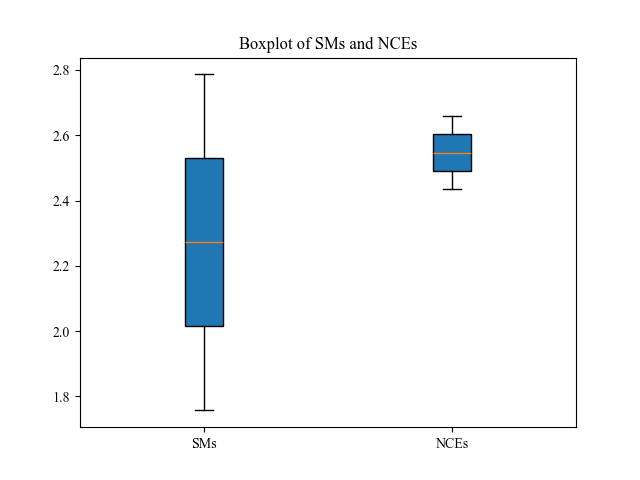
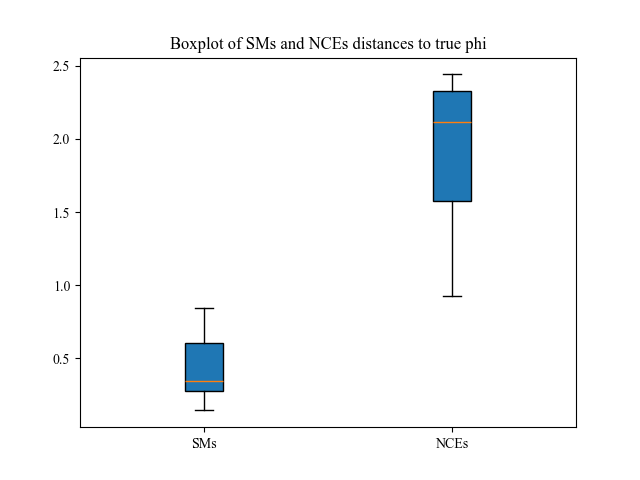
Added more statistcal tests

diff --git a/src/results/NCE_stability.py b/src/results/NCE_stability.py
@@ -1,0 +1,190 @@
+import sys
+sys.path.insert(0, '.')
+
+from src.toolbox import TorusGraph, NCE, SM, sample_syndata_torusgraph, TorusGraphInformation
+from src.parameterEstimation.trainNCE import mixture_torch_loop
+
+
+import time
+import os
+import torch
+import matplotlib.pyplot as plt
+import numpy as np
+from typing import Tuple
+import concurrent.futures
+from functools import partialmethod
+import tqdm
+from scipy.stats import f_oneway
+from scipy import stats
+
+
+def sample_data(N, nodes, phi, nModels ) -> Tuple[np.ndarray, TorusGraphInformation]:
+    X, datamodel = sample_syndata_torusgraph(
+        nodes = nodes,
+        samples = N,
+        phi = phi,
+        nModels = nModels,
+        fitFCM = False,
+        fitPAD = True,
+        fitPAS = False,
+        return_datamodel = True
+    )
+    return X, datamodel
+
+def NCE_estimate(X, N, nodes, K, lr = 0.1, nce_steps = 2000):
+    X = torch.from_numpy(X).float().T
+    noise = torch.rand(N,nodes)*2*torch.tensor(np.pi)
+    estimation_method = NCE(nodes = X.shape[1], K = K, lr = lr, steps = nce_steps, return_log_prop_data = True)
+    torus_graph = TorusGraph(nodes = X.shape[1], samples = X.shape[0], data = X, nModels = K, estimationMethod = estimation_method)
+
+    theta = estimation_method.theta.detach().flatten().numpy()
+
+    return theta
+
+def single_run(N, nodes, phi, K):
+    X, datamodel = sample_data(N, nodes, phi, nModels =2)
+    theta = NCE_estimate(X, N, nodes, K)
+
+    return theta
+
+def cross_val_runs(cv_runs, N, nodes, phi, K):
+    thetas = []
+
+    for i in range(cv_runs):
+        print(f"\n--- Round {i+1} of {cv_runs}: ---\n")
+        # dist, theta = run_NCE(N, nodes, phi, K)
+        # dists.append(dist)
+        theta = single_run(N, nodes, phi, K)
+        thetas.append(theta)
+
+    thetas = np.array(thetas)
+    return thetas
+
+def distances(thetas, cv_runs):
+    dists = []
+
+    for i in range(cv_runs):
+        dist = np.array(np.linalg.norm(phi[0] - thetas[0,i].reshape(2,6)))
+        dists.append(dist)
+        dist1 = np.array(np.linalg.norm(phi[1] - thetas[1,i].reshape(2,6)))
+        dists.append(dist1)
+        
+    return np.array(dists)
+
+def plots(dists):
+    dist1 = dists[:,0,0]#.reshape(20,1)
+    dist2 = dists[:,0,1]#.reshape(20,1)
+    dist3 = dists[:,0,2]#.reshape(1,20)
+    dist4 = dists[:,0,3]#.reshape(1,20)
+    dist5 = dists[:,0,4]#.reshape(1,20)
+    dist6 = dists[:,0,5]#.reshape(1,20)
+
+    plt.rcParams['font.family'] = 'Times New Roman'
+    fig, ax = plt.subplots()
+    boxplot_data = [dist1, dist2, dist3, dist4, dist5, dist6] #, dist3, dist4, dist5, dist6]
+    #boxplot_data = dist1
+    ax.boxplot(boxplot_data, patch_artist=True)
+    ax.set_xticklabels(['Phi1', 'Phi2', 'Phi3', 'Phi4', 'Phi5', 'Phi6'])
+    ax.set_title('Boxplot of distances to true Phi values')
+    plt.show()
+
+
+def stat_tests(thetas):
+    pvalues = []
+    mean = []
+    std = []
+    model_pairs = []
+
+    for i in range(len(thetas)):
+        mean.append(np.mean(thetas[:,i]))
+        std.append(np.std(thetas[:,i]))
+        for j in range(i + 1, len(thetas)):  # Ensure each pair is tested once
+            pvalue = stats.f_oneway(thetas[i], thetas[j])
+            pvalues.append(pvalue.pvalue)
+            model_pairs.append((i, j))
+        # for j in range(len(thetas)):
+        #     pvalue = stats.f_oneway(thetas[i], thetas[j])
+        #     pvalues.append(pvalue.pvalue)
+        #     if j == len(thetas):
+        #         pvalue = f_oneway(thetas[-1], thetas[0])
+        #         pvalues.append(pvalue.pvalue)
+
+    return mean, std, pvalues, model_pairs
+
+
+
+if __name__=="__main__":
+    os.environ['DISABLE_TQDM'] = 'True'
+    tqdm.__init__ = partialmethod(tqdm.__init__, disable=True)
+    start_time = time.time()
+
+    N = 100
+    nodes = 3
+    K = 2
+    cv_runs = 10
+    phi = [
+        np.block([ 0, 0, 8*np.cos(np.pi), 8*np.sin(np.pi), 0, 0 ]), 
+        np.block([ 0, 0, 8*np.cos(np.pi/2), 8*np.sin(np.pi/2), 0, 0 ])]
+
+    thetas = cross_val_runs(cv_runs, N, nodes, phi, K)
+    dists = distances(thetas, cv_runs)
+    mean, std, pvalues, model_pairs = stat_tests(thetas)
+    plots(dists)
+
+    #plots(dist1, dist2, dist3, dist4, dist5, dist6)
+
+    #print(pvalues)
+    significant_pairs = [(pair, pval) for pair, pval in zip(model_pairs, pvalues) if pval < 0.05]
+
+    for pair, pval in significant_pairs:    
+        print(f"Model {pair[0]} and Model {pair[1]} are significantly different with p-value: {pval}")
+
+    plt.figure(figsize=(10,10))
+    plt.subplot(2,3,1)
+    plt.plot(range(cv_runs), thetas[:,0])
+    plt.axhline(mean[0], color='blue', linestyle='--', linewidth=2, label='Mean')
+    plt.xlabel('Iterations')
+    plt.ylabel('Theta values')
+    plt.title('Phi1')
+    plt.legend()
+
+    plt.subplot(2,3,2)
+    plt.plot(range(cv_runs), thetas[:,1], color='green')
+    plt.axhline(mean[1], color='green', linestyle='--', linewidth=2, label='Mean')
+    plt.xlabel('Iterations')
+    plt.ylabel('Theta values')
+    plt.title('Phi2')
+    plt.legend()
+
+    plt.subplot(2,3,3)
+    plt.plot(range(cv_runs), thetas[:,2], color='red')
+    plt.axhline(mean[2], color='red', linestyle='--', linewidth=2, label='Mean')
+    plt.xlabel('Iterations')
+    plt.ylabel('Theta values')
+    plt.title('Phi3')
+    plt.legend()
+
+    plt.subplot(2,3,4)
+    plt.plot(range(cv_runs), thetas[:,3], color='purple')
+    plt.axhline(mean[3], color='purple', linestyle='--', linewidth=2, label='Mean')
+    plt.xlabel('Iterations')
+    plt.ylabel('Theta values')
+    plt.title('Phi4')
+    plt.legend()
+
+    plt.subplot(2,3,5)
+    plt.plot(range(cv_runs), thetas[:,3], color='orange')
+    plt.axhline(mean[4], color='orange', linestyle='--', linewidth=2, label='Mean')
+    plt.xlabel('Iterations')
+    plt.ylabel('Theta values')
+    plt.title('Phi5')
+    plt.legend()
+
+    plt.subplot(2,3,6)
+    plt.plot(range(cv_runs), thetas[:,5], color='teal')
+    plt.axhline(mean[5], color='teal', linestyle='--', linewidth=2, label='Mean')
+    plt.xlabel('Iterations')
+    plt.ylabel('Theta values')
+    plt.title('Phi6')
+    plt.legend()
+    plt.show()

diff --git a/src/results/Kmodels.py b/src/results/Kmodels.py
@@ -10,8 +10,8 @@ from tqdm import tqdm
 if __name__ == "__main__":
     N = 1000
     nodes = 3
-    lr = 0.1
-    nce_steps = 2000    
+    lr = 0.05
+    nce_steps = 1000    
 
     Ks = [1,2,3,4,5]
     l_dict = {K: [] for K in Ks}
@@ -44,7 +44,12 @@ if __name__ == "__main__":
 
     losses_list = list(l_dict.values())
     losses_mean = [(np.mean(losses)) for losses in losses_list]
+    plt.rcParams['font.family'] = 'Times New Roman'
+    fig, ax = plt.subplots()
     plt.plot(np.array(Ks), losses_mean, marker = 'o')
+    ax.set_xticklabels(list(l_dict.keys()))
+    ax.set_xlabel('Number of models')
+    ax.set_ylabel('Objective function')
     plt.title('Mean of objective function over sets of (1,2,...5) models')
     plt.show()
 
@@ -54,11 +59,15 @@ if __name__ == "__main__":
     # plt.title('Mean of objective function over sets of (1,2,...5) models')
     # plt.show()
 
+
     fig, ax = plt.subplots()
     ax.boxplot(losses_list, patch_artist=True)
     ax.set_xticklabels(list(l_dict.keys()))
+    ax.set_xlabel('Number of models')
+    ax.set_ylabel('Objective function')
     plt.title(f'Objective function over sets of (1,2,... {K}) models')
     plt.show()
+    plt.savefig('src/plots/objective_function_k_models.png')
 
 
 

diff --git a/src/results/data_evaluation.py b/src/results/data_evaluation.py
@@ -1,0 +1,34 @@
+import sys
+sys.path.insert(0, '.')
+
+from src.toolbox import NCE, TorusGraph, load_sample_data
+import time
+import os
+import matplotlib.pyplot as plt
+import numpy as np
+from tqdm import tqdm
+import torch
+import seaborn as sns
+
+if __name__=="__main__":
+    data, truevals = load_sample_data()
+    data = torch.from_numpy(data).float()
+
+    #plot distribution of true values
+    fig, ax = plt.subplots()
+    ax.hist(truevals, bins=100, color='blue', alpha=0.7)
+    ax.set_title('Distribution of true values')
+    plt.show()
+
+    #boxplots
+    # Using Z-score to identify outliers
+    mean = torch.mean(data)
+    std = torch.std(data)
+    z_scores = (data - mean) / std
+    outliers = torch.sum((z_scores < -3) | (z_scores > 3)).item()
+    print(f"Number of outliers: {outliers}")# Typically, a Z-score greater than 3 is considered an outlier
+
+    #print(f"Number of outliers: {torch.sum(outliers).item()}")
+
+
+

diff --git a/src/results/sm_vs_nce_boxplot.py b/src/results/sm_vs_nce_boxplot.py
@@ -121,16 +121,16 @@ if __name__ == "__main__":
     phi = np.block([ 0, 0, 8*np.cos(np.pi), 8*np.sin(np.pi), 0, 0 ])
     dist_SMs, dist_NCEs, phiSMS, thetas, dist_SM_abss, dist_NCE_abss = cross_val_runs(cv_runs, N, nodes, phi, K)
     print(f"Time taken = {time.time() - start_time}")
-    # plot(dist_SMs, dist_NCEs)
-    # plt.savefig('src/plots/sm_vs_nce_boxplot.png')
-    # plt.show()
+    plot(dist_SMs, dist_NCEs)
+    plt.savefig('src/plots/sm_vs_nce_boxplot.png')
+    plt.show()
 
-    # plot2(phiSMS, thetas)
-    # plt.savefig('src/plots/sm_vs_nce_boxplot2.png')
-    # plt.show()
+    plot2(phiSMS, thetas)
+    plt.savefig('src/plots/sm_vs_nce_boxplot2.png')
+    plt.show()
 
-    # plot1(dist_SM_abss, dist_NCE_abss)
-    # plt.show()
+    plot1(dist_SM_abss, dist_NCE_abss)
+    plt.show()
 
 #pvalue for models distance being different from each other
     pvalue_dists = wilcoxon(dist_SMs, dist_NCEs)
